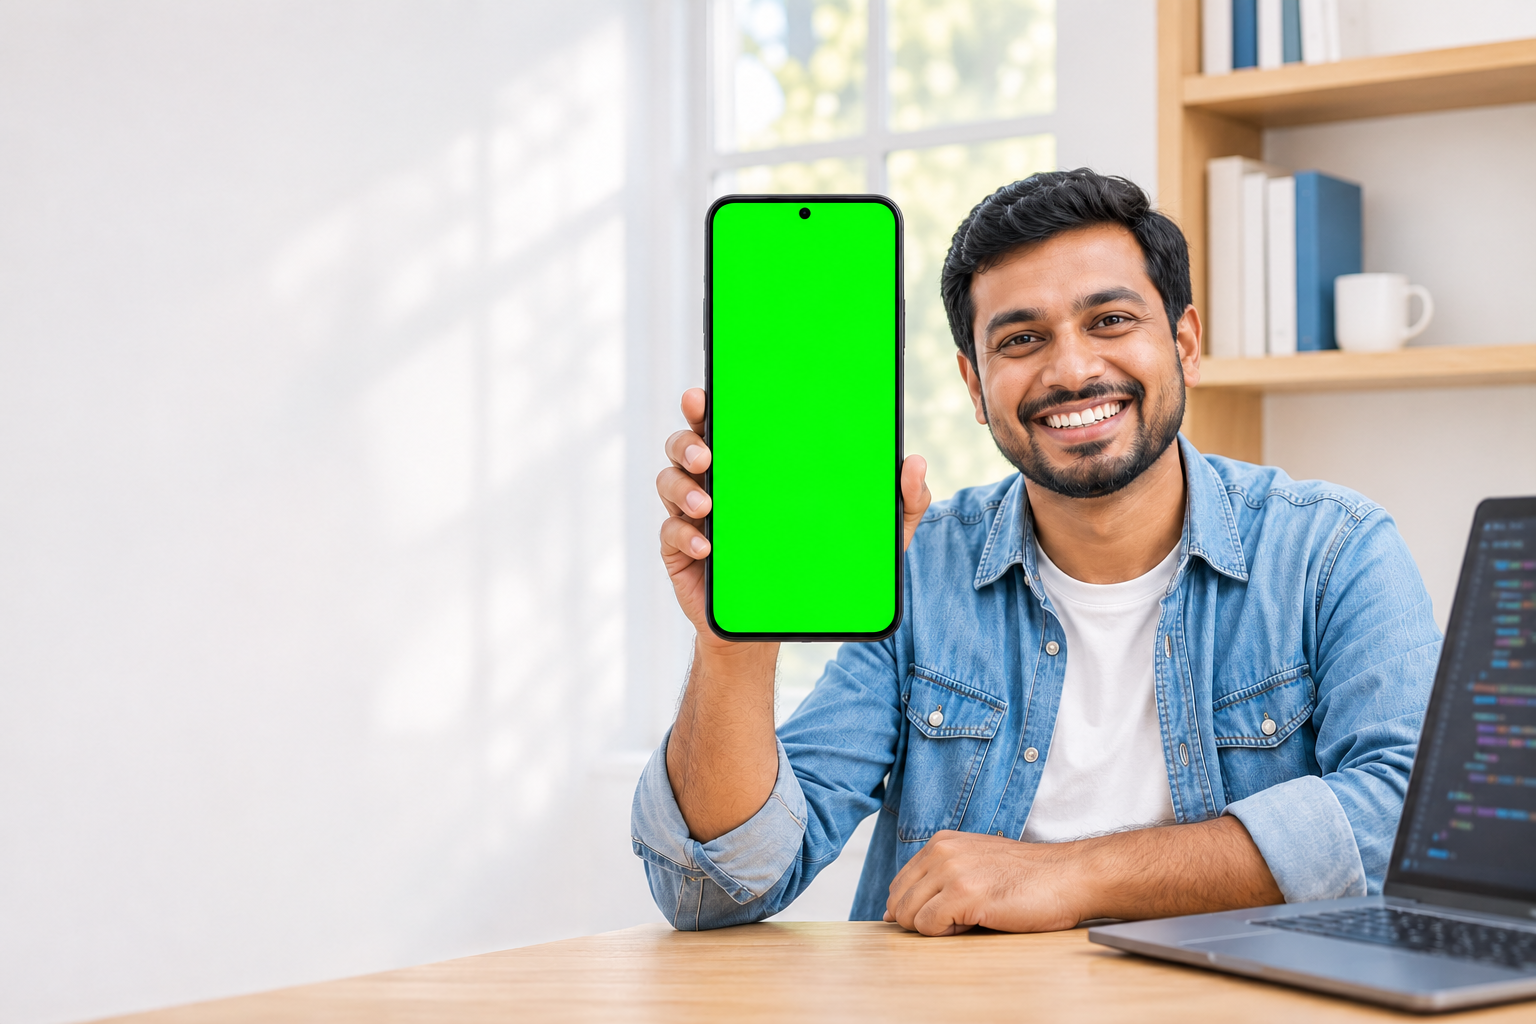
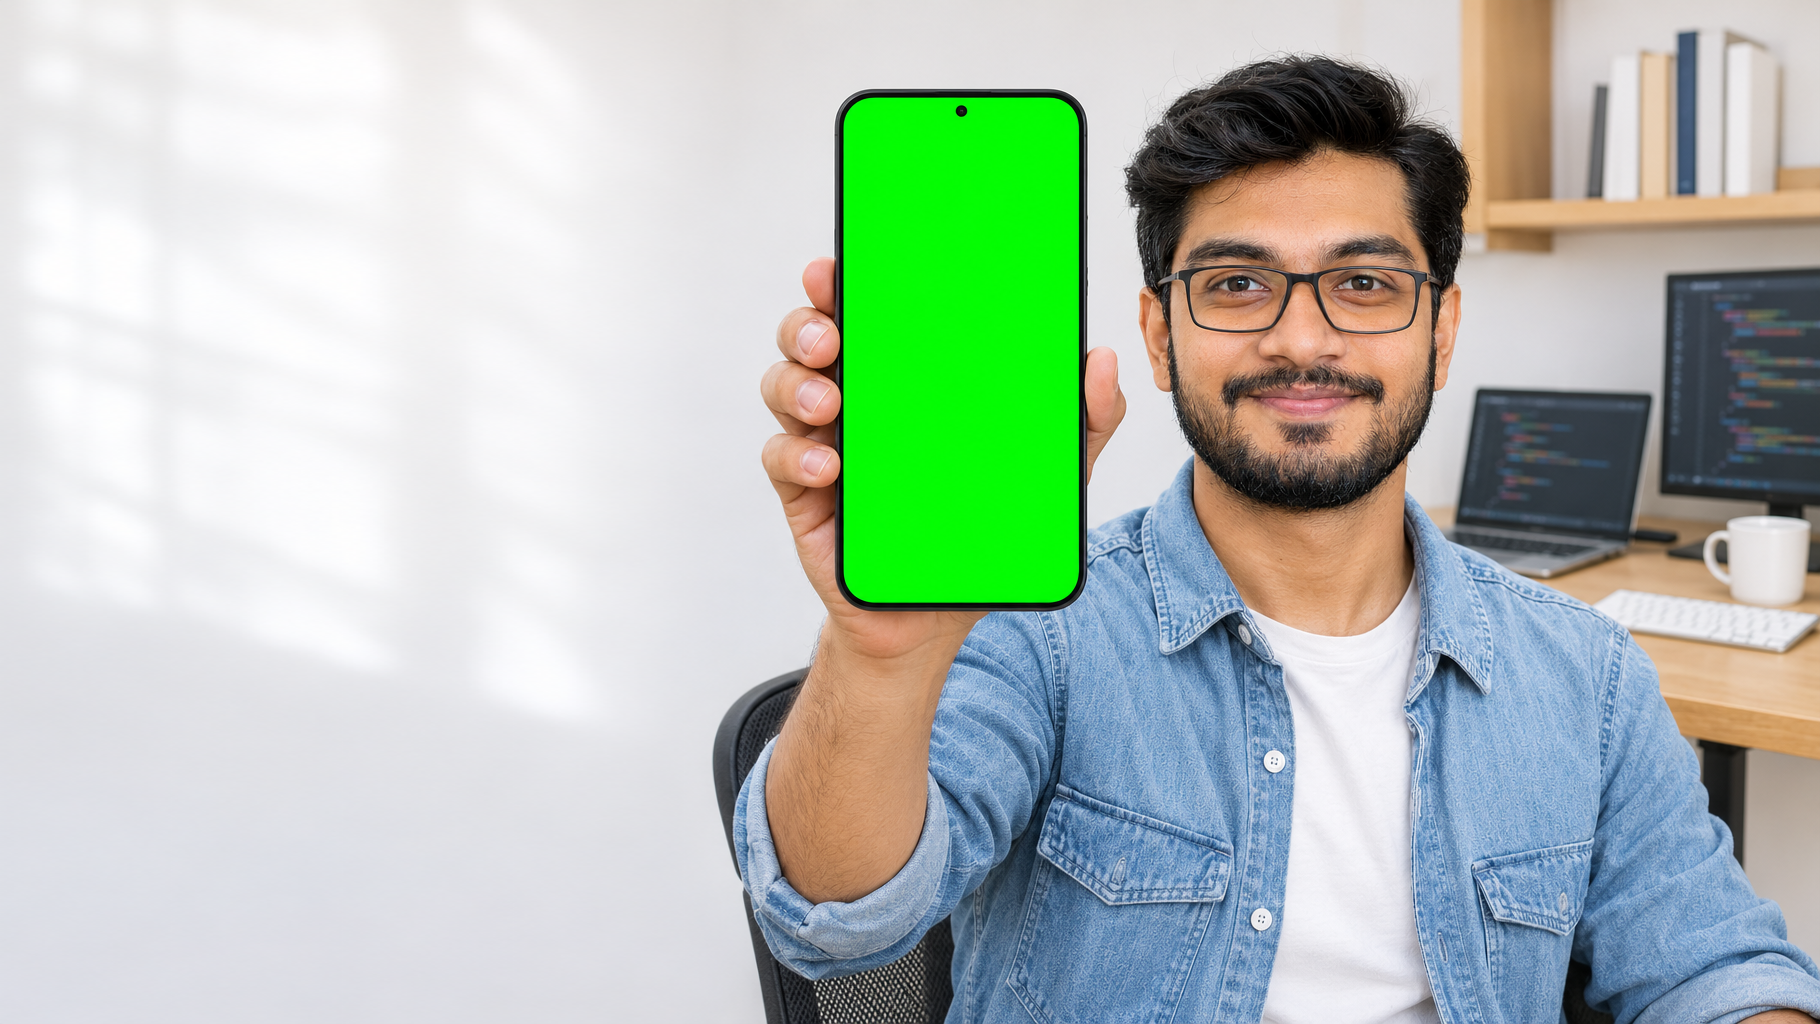
Store slides: one main character, dev setups, hands-only slides, no chat

diff --git a/store/art/review.html b/store/art/review.html
@@ -23,7 +23,7 @@
 </head>
 <body>
 <h1>TestTrack store slides (English)</h1>
-<p class="note">Built from photo_slides.toml. Open this page from store/art after a build so the pictures load.</p>
+<p class="note">Built from photo_slides.toml with photo set 2 (one main character, dev desks, hands-only slides 3, 5 and 6) and the retaken captures. Open this page from store/art after a build so the pictures load.</p>
 
 <h2>Hero (landscape)</h2>
 <div class="row">

diff --git a/store/art/photos/direction.md b/store/art/photos/direction.md
@@ -1,61 +1,64 @@
-# TestTrack store photos, direction (2026-11-23)
+# TestTrack store photos, direction (set 2, 2026-11-23)
 
 Photos for the English Play photo slides, built like Daytone's (mkit `scripts/photo_slides/build_app.py` + `composite.py`).
-Made with Codex image generation, with `phone_template.png` attached every time (Daytone's copy, 1080x2340 screen shape like TestTrack's captures).
-Full prompts: `_run/p_<name>.md`. Generator: `_run/gen.py [names]`. Green screen check: `_run/measure.py`.
+Made with Codex image generation. `character_ref.png` and `phone_template.png` were attached to every photo of the set.
+`phone_template.png` is Daytone's copy, with a 1080x2340 screen shape like TestTrack's captures.
+Generator: `_run/gen2.py [names]` (writes `_run/p_<name>.md` and `_run/<name>.log`). Green screen check: `_run/measure.py`.
+Set 1 (several different men) with its `gen.py` and prompts is in `_old/set1_2026-11-23/`.
+
+## Main character (owner feedback 2026-11-23)
+One man on every photo that shows a face. Reference: `character_ref.png` (1024x1536, head and chest, straight on).
+- A Bangladeshi software developer, about 28. He has warm medium-brown skin and short thick black hair with a soft side part, swept up a little at the front, with tapered sides.
+- He has a neatly trimmed short full black beard joined to a moustache, and thin black rectangular full-rim glasses. Slim build.
+- Clothes: an open light-wash denim shirt, sleeves rolled to mid forearm, over a plain white crew-neck tee. In the dusk photo he wears a plain dark navy tee.
+- Hands-only photos show his skin tone and the denim cuff.
+
+The words are kept in `HIM` and `SHIRT` in gen2.py. Every prompt also says the man is EXACTLY the person in character_ref.png.
 
 ## Owner rules applied to every photo
-Men only, including the background. Bright daylight, faces visible and sharp, real backgrounds (desk, cafe, co-working, campus, home office). No hand-only shots, no dark moody shots. The whole phone is always visible, the screen is flat pure #00FF00, and fingers stay on the bezel. No text, logos or brand marks. Laptop code is soft and unreadable. Mostly South Asian men, plus one Black and one Indonesian man. Colours are white, light oak, sky and denim blue, with gold accents. Nothing green except the screen.
-
-## Shared prompt blocks (in gen.py)
-- T: use EXACTLY the template phone (slim black, thin even bezel, punch-hole, screen height 2.17 x width).
-- SCR: screen faces the camera almost flat, one flat full-brightness #00FF00, no glare, icons or green spill; whole phone visible with space below; thumb and fingers on side edges and back only.
-- MEN: only men, no women or girls anywhere.
-- Portrait framing: screen about 38% of width, phone top about 32%, bottom no lower than 86%; face beside the phone (right), eyes at 30 to 36%; top 22% calm for the title; everything inside the middle 84% of width.
-- END: candid premium lifestyle photo, bright daylight, faces lit and sharp, shallow depth of field, colour list, no text or logos, five fingers.
+- Men only, including the background.
+- Bright daylight. The dusk photo is the exception, and its face is still clearly lit by the lamp.
+- Real developer environments: a desk with a laptop and an external monitor showing soft, unreadable dark-theme code, a keyboard, a coffee mug, light oak, and shelves with plain-spined books.
+- The whole phone is always visible, the screen is flat pure #00FF00, and fingers stay on the edges.
+- No text, logos or brand marks.
+- Colours: white, light oak, sky and denim blue, gold accents. Nothing green except the screen, so no plants.
+- Phones are bigger than in set 1. Each prompt gives the phone's pixel box and says "SIZE IS THE MOST IMPORTANT RULE" (arm stretched toward the lens).
+- Hands-only slides: free, feedback and volunteer (owner's request).
 
 ## Images
-| file | who / where |
+| file | content |
 |---|---|
-| land_hero.png 1536x1024 | Bangladeshi man early 30s, denim shirt over white tee, bright home office, laptop with code at right; phone beside face; left 55% calm white wall |
-| land_feature.png 1536x750 | Indian man late 20s, sky-blue tee, co-working space, laptop with code; phone at shoulder. Pre-cropped to the 1024x500 ratio (rows 51 to 801 of the 1536x1024 original, `_old/land_feature_v2_full.png`) so the builder's centre crop does not cut his hair |
-| photo_proof.png | Bangladeshi man late 20s, rimless glasses, white oxford, home office desk with laptop; calm focused half smile |
-| photo_free.png | Pakistani man early 30s, grey henley, white sofa in a sunny flat; big relieved smile |
-| photo_crew.png | Three men in a co-working space: Bangladeshi (front, green phone), Black, Sri Lankan; the back two hold their phones back to camera |
-| photo_feedback.png | Indonesian man mid 20s, cream sweater, cafe by a window, hand on laptop with code, coffee cup |
-| photo_volunteer.png | Bangladeshi student early 20s, denim overshirt, navy backpack, sunny campus walkway, male students far behind |
-| photo_dark.png | South Asian man early 30s, navy tee, home office at dusk, warm desk lamp on his face, blue window, laptop with code |
-| phone_3d_a.png | Phone alone, about 15 degrees yaw (left edge near), side buttons on the right, pale sky blue to white studio backdrop |
-| phone_3d_b.png | Phone alone, about 10 degrees yaw the other way, floating with soft shadow, light ocean blue backdrop |
+| character_ref.png 1024x1536 | Reference portrait of the main character (not a slide). A plant shows on the shelf behind him; it is not used in any slide |
+| land_hero.png 1820x1024 (16:9) | He sits at his desk and holds the phone up beside his face. Monitor and laptop with code, keyboard and mug at right, shelf with books. Left 46% is a calm white wall. The left wall was widened from the 1536x1024 original (`_old/set2_try2/land_hero.png`, columns 0 to 400 stretched smoothly) so the phone clears the title block |
+| land_feature.png 1536x750 | The same man, same desk set with the monitor and laptop of code at left, phone held up beside his face. Pre-cropped to the 1024x500 ratio from rows 50 to 800 of `_old/set2_try2/land_feature.png`. About 55 px of wall above his hair |
+| photo_proof.png | At his dev desk with monitor, laptop, mug and keyboard. Phone held toward the lens, calm half smile, glasses |
+| photo_crew.png | Three men in a bright co-working space. He is in front with the green phone, a Black man (white tee) and a Sri Lankan man (sky-blue polo) behind him, their phones back to camera. This is try 1 of set 2 |
+| photo_dark.png | The same man in a navy tee, home office at dusk. Brass lamp lights his face warmly, monitor glow, blue dusk window |
+| photo_free.png | Hands only: right hand holds the phone, denim cuff. Monitor and laptop with code, mug, shelf |
+| photo_feedback.png | Hands only: left hand holds the phone, right hand on the laptop keyboard, latte in a sky-blue mug, monitor with code |
+| photo_volunteer.png | Hands only: both hands cup the bottom of the phone. Blank notebook and pen, latte, monitor and laptop with code |
+| phone_3d_a.png, phone_3d_b.png | Unchanged from set 1 |
 
 ## Green screen measures and builder notes
-The portraits are 1024x1536. The builder scales them 1.25x to 1080x1920, so it can shift them sideways by about 100 px but not up or down.
-The phones in the people photos are smaller than Daytone's hand shots (21 to 27% of the width), so the faces fit beside them.
-Set `phone_w` per slide to the value below (the native size, no zoom). The default of 560 would zoom in about 1.6x and cut off the faces.
-`phone_top` has no effect at the native size.
-Use lifts and cards to carry the app detail.
+The portraits are 1024x1536. The builder scales them 1.25x to 1080x1920.
 
-| file | screen box (src px) | h/w | phone_w | screen top on slide |
-|---|---|---|---|---|
-| photo_proof | x235-482 y520-1079 | 2.26 | ~308 | ~650 |
-| photo_free | x192-469 y500-1115 | 2.22 | ~346 | ~625 |
-| photo_crew | x379-643 y733-1333 | 2.27 | ~330 | ~916 |
-| photo_feedback | x155-430 y502-1150 | 2.36 | ~343 | ~627 |
-| photo_volunteer | x194-433 y540-1075 | 2.24 | ~298 | ~675 |
-| photo_dark | x228-458 y563-1052 | 2.13 | ~287 | ~703 |
-| phone_3d_a | x296-703 y424-1374 | 2.33 (perspective) | ~508 | ~530 |
-| phone_3d_b | x323-716 y431-1379 | 2.41 (perspective) | ~491 | ~538 |
-| land_hero | x713-894 y203-631 | 2.36 | | composite squeezes about 8% vertically |
-| land_feature | x840-952 y215-472 | 2.29 | | small phone, about 5% squeeze |
-
-photo_feedback's phone sits left of centre (x 155 to 430), so the composite clamps the crop at the left edge, which is fine. Its face stays in frame.
+| file | screen box (src px) | width | h/w | phone_w | screen top on slide |
+|---|---|---|---|---|---|
+| photo_proof | x214-513 y485-1169 | 29% | 2.29 | ~373 | ~606 |
+| photo_crew | x352-624 y739-1337 | 27% | 2.20 | ~340 | ~923 |
+| photo_dark | x186-498 y486-1192 | 30% | 2.26 | ~390 | ~607 |
+| photo_free | x297-726 y435-1368 | 42% | 2.17 | ~536 | ~543 |
+| photo_feedback | x330-683 y415-1189 | 34% | 2.19 | ~441 | ~518 |
+| photo_volunteer | x297-726 y433-1367 | 42% | 2.18 | ~536 | ~541 |
+| land_hero | x843-1078 y98-602 | 13% | 2.14 | | 16:9, no vertical crop. On a 1920x1080 slide the phone is at about x889-1137 |
+| land_feature | x709-950 y164-688 | 16% | 2.17 | | On the 1024x500 banner the phone is at about x467-640, so the title column must end by about x450 |
 
 ## Retries
-- land_feature v1: hair at 5% from the top, cut by the banner crop. v2 still at about 9%, so it was pre-cropped by hand (above).
-- phone_3d_b v1: yaw too strong, the screen read 2.60 tall (a 17% squeeze). v2 has a gentler angle.
-- photo_proof v1: screen only 21% of the width. v2 is 24%, still small. The model keeps phones held at arm's length small.
-Originals are in `_old/`.
+- Try 1: all phones too small in the face photos: land 8%, proof 19%, dark 24%, crew 27%. Kept in `_old/set2_try1/`.
+- Try 2: added the pixel boxes and "SIZE IS THE MOST IMPORTANT RULE". Proof went to 29%, dark 30%, hero 15% and feature 16%.
+- Crew dropped to 21% in try 2 (`_old/set2_try2/photo_crew.png`), so crew try 1 is kept. Note that `_run/p_photo_crew.md` holds the try 2 prompt.
+- Hero try 2 put the phone at 36% of the width, under the title block. Its left wall was widened instead of running a third generation.
 
 ## Open
-- photo_dark has a dark potted plant top left. It is too dark to key as green, so the composite is safe.
-- The people-photo phones are small for showing a full capture. If the owner wants bigger phones, regenerate with the phone held near the lens as the main subject and the face smaller behind it.
+- The face portraits are at 27 to 30% screen width, below the 35 to 45% target. The model keeps arm-held phones smaller than asked. A third try could ask for the phone as the foreground subject with his face smaller behind it.
+- land_feature: the text column of the old feature comp runs to x596 and needs narrowing to about x450, or the photo needs a regeneration with the phone further right.
